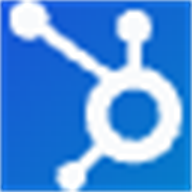
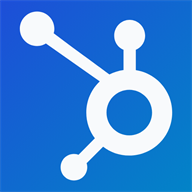
Actualizacion del icono PWA

Changed region(s): [[0.0, 0.0, 1.0, 1.0]]

diff --git a/front/vite.config.ts b/front/vite.config.ts
@@ -7,7 +7,11 @@ export default defineConfig({
   plugins: [react(),
     VitePWA({
       registerType: 'autoUpdate',
-      includeAssets: ['nexus-shop-192.png', 'nexus-shop-512.png'],
+      includeAssets: [
+        'nexus-shop-192.png',
+        'nexus-shop-512.png',
+        'nexus-shop-maskable-512.png',
+      ],
       manifest: {
         name: 'NexusShop',
         short_name: 'NexusShop',
@@ -21,12 +25,20 @@ export default defineConfig({
           {
             src: '/nexus-shop-192.png',
             sizes: '192x192',
-            type: 'image/png'
+            type: 'image/png',
+            purpose: 'any'
           },
           {
             src: '/nexus-shop-512.png',
             sizes: '512x512',
-            type: 'image/png'
+            type: 'image/png',
+            purpose: 'any'
+          },
+          {
+            src: '/nexus-shop-maskable-512.png',
+            sizes: '512x512',
+            type: 'image/png',
+            purpose: 'maskable'
           }
         ]
       }
